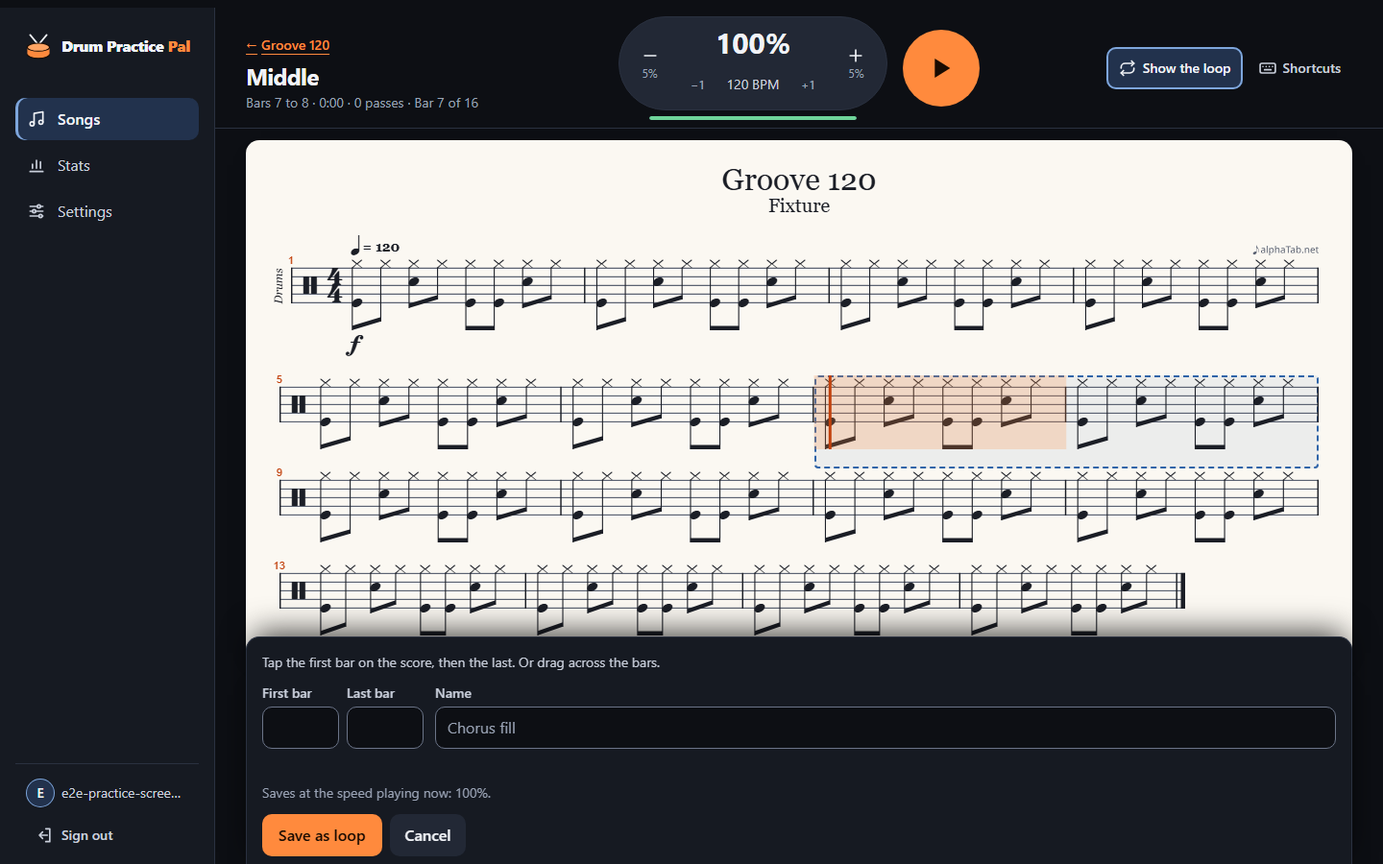
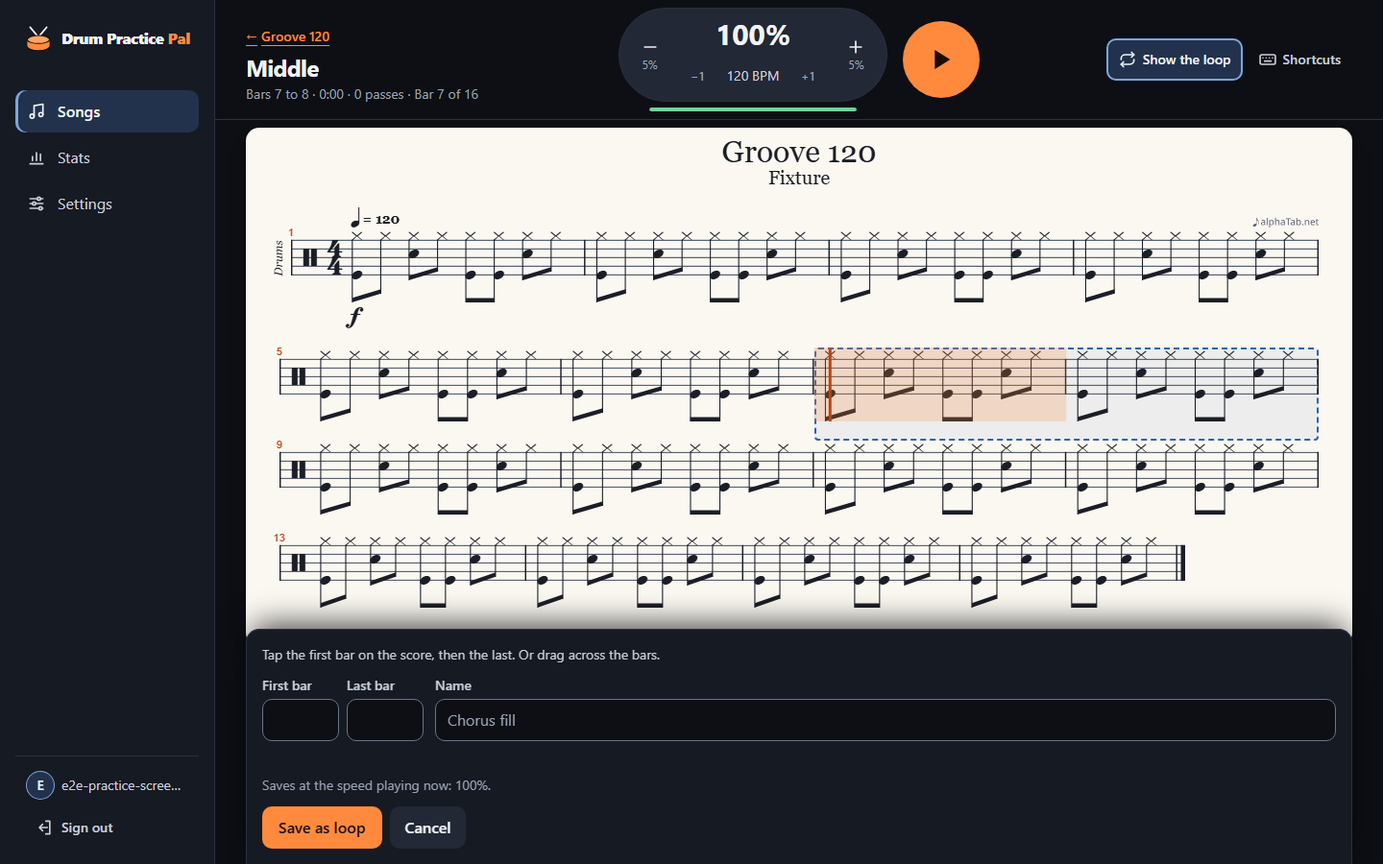
Saving a loop stays put, for making several in a row
Shane, practising: he makes a few loops, then goes to them. A save from the overview's New loop form, or from the practice screen's Save as loop sheet, no longer jumps to the new loop: the form stays, emptied, names the loop just saved with a way to practise it, and its second button reads Done. Each form that stays is remounted, so every save has its own client id.

diff --git a/src/features/song/LoopPracticePage.test.tsx b/src/features/song/LoopPracticePage.test.tsx
@@ -464,7 +464,9 @@ describe('LoopPracticePage', () => {
       });
     });
 
-    it('in the whole song, taps pick a new loop’s bars; Save as loop opens its screen, replaced', async () => {
+    // Shane, practising: several loops are made in one go, then practised. A save no longer
+    // jumps to the new loop.
+    it('in the whole song, Save as loop keeps the view for the next loop and names the one saved', async () => {
       const { user, engine } = await openChorus([`/songs/${SONG}`]);
       await user.click(wholeSong());
       engine.seek.mockClear();
@@ -478,14 +480,38 @@ describe('LoopPracticePage', () => {
       await user.type(screen.getByRole('textbox', { name: 'Name' }), 'Intro');
       await user.click(screen.getByRole('button', { name: 'Save as loop' }));
 
+      // Still the loop being practised, still the whole song, and an empty form.
+      expect(await screen.findByTestId('loop-saved-note')).toHaveTextContent('Saved “Intro”.');
+      expect(screen.getByRole('heading', { level: 1, name: 'Chorus fill' })).toBeInTheDocument();
+      expect(location()).toHaveTextContent(`/songs/${SONG}/loops/${CHORUS_ID}`);
+      expect(wholeSong()).toHaveAccessibleName(SHOWS_SONG);
+      expect(screen.getByRole('textbox', { name: 'Name' })).toHaveValue('');
+      expect(screen.getByRole('textbox', { name: 'First bar' })).toHaveValue('');
+      expect(screen.getByRole('button', { name: 'Done' })).toBeInTheDocument();
+
+      // A second loop is its own row: a new id, not the first one sent again.
+      tap(engine, 14);
+      tap(engine, 15);
+      await user.type(screen.getByRole('textbox', { name: 'Name' }), 'Outro');
+      await user.click(screen.getByRole('button', { name: 'Save as loop' }));
+      expect(await screen.findByText(/Saved “Outro”/)).toBeInTheDocument();
+      const sent = loops.sent('insert') as Loop[];
+      expect(sent.map((loop) => loop.name)).toEqual(['Intro', 'Outro']);
+      expect(sent[0]).toMatchObject({ start_bar: 3, end_bar: 5, speed_ratio: 0.708333 });
+      expect(sent[0]?.id).not.toBe(sent[1]?.id);
+    });
+
+    it('"Practise it" in the saved note opens the loop just saved, replacing the URL', async () => {
+      const { user, engine } = await openChorus([`/songs/${SONG}`]);
+      await user.click(wholeSong());
+      tap(engine, 3);
+      tap(engine, 5);
+      await user.type(screen.getByRole('textbox', { name: 'Name' }), 'Intro');
+      await user.click(screen.getByRole('button', { name: 'Save as loop' }));
+      await user.click(await screen.findByRole('button', { name: 'Practise it' }));
+
       expect(await screen.findByRole('heading', { level: 1, name: 'Intro' })).toBeInTheDocument();
       const [sent] = loops.sent('insert') as Loop[];
-      expect(sent).toMatchObject({
-        name: 'Intro',
-        start_bar: 3,
-        end_bar: 5,
-        speed_ratio: 0.708333,
-      });
       expect(location()).toHaveTextContent(`/songs/${SONG}/loops/${sent?.id}`);
       // The new loop plays, drawn with a bar either side; the form has gone.
       expect(engine.setPlaybackRange).toHaveBeenLastCalledWith({
@@ -502,6 +528,23 @@ describe('LoopPracticePage', () => {
 
       historyBack();
       expect(await screen.findByText('At song overview')).toBeInTheDocument();
+    });
+
+    it('"Done" after a save goes back to the loop being practised', async () => {
+      const { user, engine } = await openChorus();
+      await user.click(wholeSong());
+      tap(engine, 3);
+      tap(engine, 5);
+      await user.type(screen.getByRole('textbox', { name: 'Name' }), 'Intro');
+      await user.click(screen.getByRole('button', { name: 'Save as loop' }));
+      await user.click(await screen.findByRole('button', { name: 'Done' }));
+
+      expect(wholeSong()).toHaveAccessibleName(SHOWS_LOOP);
+      expect(screen.getByRole('heading', { level: 1, name: 'Chorus fill' })).toBeInTheDocument();
+      expect(engine.setPlaybackRange).toHaveBeenLastCalledWith({
+        startTick: startOfBar(9),
+        endTick: startOfBar(13),
+      });
     });
 
     it('a mouse drag in the whole song picks the bars', async () => {
@@ -538,7 +581,7 @@ describe('LoopPracticePage', () => {
       expect(screen.getByRole('textbox', { name: 'First bar' })).toHaveValue('3');
 
       release();
-      expect(await screen.findByRole('heading', { level: 1, name: 'Intro' })).toBeInTheDocument();
+      expect(await screen.findByTestId('loop-saved-note')).toHaveTextContent('Saved “Intro”.');
       expect(loops.sent('insert')).toHaveLength(1);
     });
 

diff --git a/src/features/loops/LoopPanel.tsx b/src/features/loops/LoopPanel.tsx
@@ -1,4 +1,5 @@
 import { useRef, useState } from 'react';
+import { Link } from 'react-router';
 import { LoadErrorAlert } from '@/components/LoadErrorAlert';
 import { Icon } from '@/components/icons';
 import { OverflowMenu } from '@/components/OverflowMenu';
@@ -8,6 +9,7 @@ import {
   buttonClass,
   focusRing,
   ghostButtonClass,
+  linkClass,
   primaryButtonClass,
   sectionHeadingClass,
 } from '@/components/styles';
@@ -24,6 +26,7 @@ import {
   neighbourAfterLeaving,
 } from '@/lib/itemFocus';
 import { waitsForNetwork } from '@/lib/network';
+import { loopPracticePath } from '@/lib/routes';
 import type { LoopStatus } from '@/lib/schema';
 import { useFocusWhenReady } from '@/lib/useFocusWhenReady';
 import {
@@ -74,7 +77,13 @@ interface LoopPanelProps {
  * page as it was.
  */
 export interface LoopFormOutcome {
+  /**
+   * A new loop was saved. With `keepsAdding` the form stays, emptied, for the
+   * next loop, and says which one it just saved (several loops are made in one
+   * go, then practised: Shane, 2026-11-27); this is then only told about it.
+   */
   onCreated?: (loop: Loop) => void;
+  keepsAdding?: boolean;
   onEdited?: (loop: Loop) => void;
   onCancelled?: () => void;
 }
@@ -196,6 +205,10 @@ function LoopPanelBody({
   // The form replaces the list, and with it the button that opened it; focus goes back there.
   const focusWhenReady = useFocusWhenReady();
   const formOpener = useRef<LoopFormOpener | null>(null);
+  // The loops saved by a form that stays for the next one: the last is named above the
+  // fields, and each makes the next form a new one (its own client id, an empty name).
+  const [savedHere, setSavedHere] = useState<Loop[]>([]);
+  const lastSaved = savedHere[savedHere.length - 1];
 
   const openForm = (loop: Loop | null) => {
     if (!practice.openEditor(loop)) return;
@@ -235,7 +248,7 @@ function LoopPanelBody({
     return (
       <LoopEditorForm
         // A different loop is a different form: its typed name starts over.
-        key={editor.loopId ?? 'new'}
+        key={editor.loopId ?? `new-${savedHere.length}`}
         songId={songId}
         barCount={barCount}
         loop={editedLoop}
@@ -250,6 +263,14 @@ function LoopPanelBody({
             outcome?.onEdited?.(saved);
             return;
           }
+          if (outcome?.keepsAdding) {
+            // The form stays for the next loop: nothing is selected, so the whole song is
+            // still there to pick bars from.
+            setSavedHere((loops) => [...loops, saved]);
+            practice.openEditor(null);
+            outcome.onCreated?.(saved);
+            return;
+          }
           // A new loop is what the user wants to practice next; an edit leaves playback as it is.
           if (outcome?.onCreated) outcome.onCreated(saved);
           else practice.selectLoop(saved.id);
@@ -258,6 +279,18 @@ function LoopPanelBody({
           closeForm();
           outcome?.onCancelled?.();
         }}
+        note={
+          !editedLoop && lastSaved ? (
+            <>
+              Saved “{lastSaved.name}”.{' '}
+              <Link to={loopPracticePath(songId, lastSaved.id)} className={linkClass}>
+                Practise it
+              </Link>{' '}
+              or pick bars for another.
+            </>
+          ) : undefined
+        }
+        cancelLabel={!editedLoop && lastSaved ? 'Done' : undefined}
       />
     );
   }

diff --git a/src/features/song/SongPage.test.tsx b/src/features/song/SongPage.test.tsx
@@ -1284,6 +1284,44 @@ describe('SongPage loops', () => {
     expect(speedReadout()).toHaveTextContent('80%');
   });
 
+  // Shane, practising: several loops are made in one go, then practised. The overview's "New
+  // loop" used to jump to each new loop's practice screen, and he had to back out for the next.
+  it('"New loop" from the overview keeps the form for the next loop; Done goes back to the song', async () => {
+    serve({ loops: [] });
+    const user = renderSong(`${SONG_A}?new=1`);
+    await loadPlayer(0, { barTempos: TEMPO_CHANGE_BAR_TEMPOS });
+    await panel().findByRole('form');
+
+    await user.type(form().getByLabelText('Name'), 'Verse');
+    await user.type(form().getByLabelText('First bar'), '3');
+    await user.type(form().getByLabelText('Last bar'), '4');
+    await user.click(form().getByRole('button', { name: 'Save loop' }));
+
+    // Still here, on an empty form that names what it saved and links to it.
+    expect(await form().findByTestId('loop-saved-note')).toHaveTextContent('Saved “Verse”.');
+    expect(screen.getByTestId('location')).toHaveTextContent(`/songs/${SONG_A}/play`);
+    expect(form().getByLabelText('Name')).toHaveValue('');
+    expect(form().getByLabelText('First bar')).toHaveValue('');
+    const [first] = loops.sent('insert') as Loop[];
+    expect(form().getByRole('link', { name: 'Practise it' })).toHaveAttribute(
+      'href',
+      `/songs/${SONG_A}/loops/${first?.id}`,
+    );
+
+    // A second loop is its own row, not the first sent again.
+    await user.type(form().getByLabelText('Name'), 'Chorus');
+    await user.type(form().getByLabelText('First bar'), '9');
+    await user.type(form().getByLabelText('Last bar'), '12');
+    await user.click(form().getByRole('button', { name: 'Save loop' }));
+    expect(await form().findByText(/Saved “Chorus”/)).toBeInTheDocument();
+    const sent = loops.sent('insert') as Loop[];
+    expect(sent.map((loop) => loop.name)).toEqual(['Verse', 'Chorus']);
+    expect(sent[0]?.id).not.toBe(sent[1]?.id);
+
+    await user.click(form().getByRole('button', { name: 'Done' }));
+    expect(await screen.findByText('At song overview')).toBeInTheDocument();
+  });
+
   it('refuses a form it cannot save, saying why, and sends nothing', async () => {
     const { user } = await openSong();
     await user.click(await panel().findByRole('button', { name: 'New loop' }));

diff --git a/src/features/song/LoopPracticePage.tsx b/src/features/song/LoopPracticePage.tsx
@@ -440,6 +440,9 @@ function SaveAsLoopSheet({
 }) {
   const sheetRef = useRef<HTMLDivElement>(null);
   const sheetHeight = useHeightOf(sheetRef);
+  // The loops saved from this sheet, the last one named above its fields.
+  const [savedHere, setSavedHere] = useState<Loop[]>([]);
+  const lastSaved = savedHere[savedHere.length - 1];
   const { editor } = practice;
   if (!editor) return null;
   return (
@@ -453,6 +456,8 @@ function SaveAsLoopSheet({
         className="fixed inset-x-0 bottom-[calc(3.5rem+1px+env(safe-area-inset-bottom))] z-10 max-h-[60dvh] overflow-y-auto rounded-t-card border-t border-line bg-surface p-4 shadow-sheet md:right-gutter md:bottom-[env(safe-area-inset-bottom)] md:left-[calc(var(--spacing-sidebar)+var(--spacing-gutter))] md:border-x"
       >
         <LoopEditorForm
+          // A new form for each loop saved: its own client id, an empty name.
+          key={savedHere.length}
           layout="bar"
           songId={songId}
           barCount={barCount}
@@ -463,10 +468,32 @@ function SaveAsLoopSheet({
           onBarsChange={practice.setEditorBars}
           onSavingChange={practice.setEditorSaving}
           onSaved={(saved) => {
-            practice.closeEditor();
-            practice.selectLoop(saved.id);
+            // The whole song stays, emptied for the next loop: several are made in one go,
+            // then practised (Shane, 2026-11-27). The loop being practised stays the loop.
+            setSavedHere((loops) => [...loops, saved]);
+            practice.openEditor(null);
           }}
           onCancel={practice.closeEditor}
+          note={
+            lastSaved ? (
+              <>
+                Saved “{lastSaved.name}”.{' '}
+                {/* A button, not a link: this screen switches loop in place, and its URL follows. */}
+                <button
+                  type="button"
+                  className={linkClass}
+                  onClick={() => {
+                    practice.closeEditor();
+                    practice.selectLoop(lastSaved.id);
+                  }}
+                >
+                  Practise it
+                </button>{' '}
+                or pick bars for another.
+              </>
+            ) : undefined
+          }
+          cancelLabel={lastSaved ? 'Done' : undefined}
         />
       </div>
     </>

diff --git a/src/features/loops/LoopEditorForm.tsx b/src/features/loops/LoopEditorForm.tsx
@@ -1,4 +1,4 @@
-import { useEffect, useId, useRef, useState, type FormEvent } from 'react';
+import { useEffect, useId, useRef, useState, type FormEvent, type ReactNode } from 'react';
 import { ErrorAlert } from '@/components/ErrorAlert';
 import { OfflineNote } from '@/components/OfflineNote';
 import { buttonClass, inputClass, labelClass, primaryButtonClass } from '@/components/styles';
@@ -47,6 +47,8 @@ export function LoopEditorForm({
   onSaved,
   onCancel,
   layout = 'panel',
+  note,
+  cancelLabel = 'Cancel',
 }: {
   songId: string;
   barCount: number;
@@ -61,6 +63,10 @@ export function LoopEditorForm({
   onSaved: (saved: Loop) => void;
   onCancel: () => void;
   layout?: 'panel' | 'bar';
+  /** Said above the fields, as a status: the loop just saved, when the form stays for the next. */
+  note?: ReactNode;
+  /** The second button's words: "Done" once a loop has been saved and the form stayed. */
+  cancelLabel?: string;
 }) {
   const inBar = layout === 'bar';
   const create = useCreateLoop(songId);
@@ -147,6 +153,11 @@ export function LoopEditorForm({
       onSubmit={onSubmit}
       noValidate
     >
+      {note && (
+        <p role="status" className="text-sm text-ink" data-testid="loop-saved-note">
+          {note}
+        </p>
+      )}
       <p className="text-sm text-ink-soft" aria-live="polite" data-testid="loop-bars-hint">
         {hint}
       </p>
@@ -205,7 +216,7 @@ export function LoopEditorForm({
           {saving ? 'Saving…' : inBar ? 'Save as loop' : 'Save loop'}
         </button>
         <button type="button" className={buttonClass} disabled={saving} onClick={onCancel}>
-          Cancel
+          {cancelLabel}
         </button>
       </div>
       {!online && (

diff --git a/src/features/song/SongPage.tsx b/src/features/song/SongPage.tsx
@@ -24,7 +24,7 @@ import { usePlayer } from '@/features/player/usePlayer';
 import { usePracticeTracker } from '@/features/practice/usePracticeTracker';
 import { ShortcutOverlay } from '@/features/shortcuts/ShortcutOverlay';
 import { isUuid } from '@/lib/randomUuid';
-import { EDIT_LOOP_PARAM, loopPracticePath, NEW_LOOP_PARAM, songPath } from '@/lib/routes';
+import { EDIT_LOOP_PARAM, NEW_LOOP_PARAM, songPath } from '@/lib/routes';
 import { useFocusWhenReady } from '@/lib/useFocusWhenReady';
 import {
   fullBleedBarClass,
@@ -133,8 +133,9 @@ function useLinkedLoopForm(
   if (!linked) return undefined;
   const backToSong = () => void navigate(songPath(songId), { replace: true });
   return {
-    // Replaced, so Back from the practice screen goes to the song, not to the form.
-    onCreated: (loop) => void navigate(loopPracticePath(songId, loop.id), { replace: true }),
+    // "New loop" from the song: the form stays for the next loop, and "Done" (or the note's
+    // link to the loop just saved) is the way on. Only an edit goes straight back.
+    keepsAdding: linked.kind === 'new',
     onEdited: backToSong,
     onCancelled: backToSong,
   };

diff --git a/tests/e2e/journey.spec.ts b/tests/e2e/journey.spec.ts
@@ -77,11 +77,15 @@ test('first run: sign in, upload, jam, make a loop, practise, hit full speed, fi
   await playButton(page).click();
   await expect(playButton(page)).toHaveText('Play');
 
-  // Back to the song, and "New loop": the bar picker opens, and the save goes to the loop.
+  // Back to the song, and "New loop": the bar picker opens. The save keeps the form for
+  // another loop and names the one it saved, whose link goes to its practice screen.
   await backTo(page, 'Groove 120').click();
   await page.getByRole('link', { name: 'New loop' }).click();
   await expect(loopForm(page)).toBeVisible({ timeout: 20_000 });
   await fillLoopForm(page, { name: 'Groove', firstBar: 5, lastBar: 6 });
+  await expect(page.getByTestId('loop-saved-note')).toContainText('Saved “Groove”.');
+  await expect(page).toHaveURL(/\/songs\/[^/]+\/play/);
+  await page.getByRole('link', { name: 'Practise it' }).click();
   await expect(page).toHaveURL(/\/songs\/[^/]+\/loops\/[^/]+$/);
   await expect(page.getByRole('heading', { level: 1, name: 'Groove' })).toBeVisible();
   await expect(playButton(page)).toBeEnabled({ timeout: 20_000 });

diff --git a/tests/e2e/practice-screen.spec.ts b/tests/e2e/practice-screen.spec.ts
@@ -72,6 +72,11 @@ test('draws the loop alone; from the whole song a tap picks bars and Save as loo
   await saveSheet(page).getByLabel('Name').fill('Early');
   await saveSheet(page).getByRole('button', { name: 'Save as loop' }).click();
 
+  // The whole song stays for another loop; the note's button opens the one just saved.
+  await expect(saveSheet(page).getByTestId('loop-saved-note')).toContainText('Saved “Early”.');
+  await expect(page.getByRole('heading', { level: 1, name: 'Middle' })).toBeVisible();
+  await saveSheet(page).getByRole('button', { name: 'Practise it' }).click();
+
   await expect(page.getByRole('heading', { level: 1, name: 'Early' })).toBeVisible();
   await expect(page).toHaveURL(/\/songs\/[^/]+\/loops\/[^/]+$/);
   await expect(saveSheet(page)).toHaveCount(0);

diff --git a/AGENTS.md b/AGENTS.md
@@ -291,7 +291,7 @@ docs/
 - A song's screens share their gates in `src/features/song/`: `SongGate` (the song row: not an id, not found, offline, loading, failed; it imports no player code, so the overview stays out of alphaTab's chunk), `SongFileGate` (the file and settings, then the player, latched per song as before), `BackLink` (the way up a level, named by the level's title), and `playerScreen.tsx` (`ScoreBox`, `PlayerStatusLine`, `SessionNotice`, `ShortcutsButton`, `fullBleedBarClass`). A new screen that plays a song uses these, `usePlayer` and the shared controls.
 - The practice screen opens its loop with `useRequestedLoop(loopId, …)` (the route's id; the rules from Unit 09 hold: settled on a read since mount, once per id, giving way to a loop already open) after `lookUpPracticeLoop` (`practiceLoop.ts`, pure) has found it in the song's list; a cached list that lacks it waits while a read is on its way. The loop keys move to the song's other loops and `useUrlFollowsLoop` replaces the URL. Its controls are `PlayerControls showSpeed={false}` (count-in, metronome, drum toggles), the round `PlayPauseButton round` and `PracticeSpeed` (large percent, BPM, `fullSpeedLabel`, round 5% nudges, each saved as it is made). `PracticeSpeed` and the panel's `LoopSpeedControl` share `useLoopSpeed` (`src/features/loops/useLoopSpeed.ts`): one gate, and one view of the saves (`useLoopSpeedSaves`); the screen saves through `useSaveLoopSpeed`. Both screens ask "Mark finished?" with `shouldAskToFinish` and `useSpeedMovedSinceChosen`. Play and Space there go by `canPlayLoopPractice(player, snapshot, loopOpen)` (`controlGates.ts`): the sounds can be in before the loop is open, and a Play then would play the whole song (16 Test bug 1); the page makes one `PlayGate` and gives it to `PlayPauseButton`'s `gate` and `useSongShortcuts`' `playGate`, which both default to `canPlay`. A screen whose Play needs more than the player does the same.
 - Short windows (a phone on its side, 390 px tall) have the `short` variant (`@custom-variant short` in `index.css`, `max-height: 30rem`): the practice screen's sticky bar is one row there (`PracticeSpeed`, the round Play at `short:size-14`), every target still 44 px.
-- "New loop" on the overview is the jam page with `?new=1`, "Edit" `?edit=<id>`: `useLinkedLoopForm` in `SongPage.tsx` opens the form once the score's bars are in (never over a form the user opened first; the score is brought above the sheet only once the panel is open, `pickingBars && loopPanel.open`, since the open sheet's room at the page's end is what lets the window scroll that far: 16 QA issue 1), and `LoopPanel`'s `outcome` (`LoopFormOutcome`: `onCreated`, `onEdited`, `onCancelled`) says where the save or Cancel goes (a new loop to its practice screen, replaced; an edit or a Cancel back to the song). Without `outcome` the panel behaves as before.
+- "New loop" on the overview is the jam page with `?new=1`, "Edit" `?edit=<id>`: `useLinkedLoopForm` in `SongPage.tsx` opens the form once the score's bars are in (never over a form the user opened first; the score is brought above the sheet only once the panel is open, `pickingBars && loopPanel.open`, since the open sheet's room at the page's end is what lets the window scroll that far: 16 QA issue 1), and `LoopPanel`'s `outcome` (`LoopFormOutcome`: `onCreated`, `onEdited`, `onCancelled`) says where the save or Cancel goes: with `keepsAdding` (the overview's "New loop") the form stays, emptied, for the next loop, naming the one just saved with a "Practise it" link, and its second button reads "Done" (Shane makes several loops, then practises them; a save no longer jumps to the new loop); an edit or a Cancel goes back to the song. The practice screen's "Save as loop" sheet does the same, its "Practise it" a button that switches loop in place. A form that stays is remounted per loop saved (`key` from the count), so each save has its own client id. Without `outcome` the panel behaves as before.
 - Session complete: `usePracticeTracker` also returns `completed` (a session logged through the mutation for a session that ended while the screen stayed, with `startSpeedRatio`, which the hook keeps per session id since the tracker keeps only the latest speed), `dismissCompleted` and `progress()` (the open session's play time and passes, read from the tracker's ref; the screen re-renders each second while running). Sessions that end by leaving (keepalive, unobserved) never set it. `SessionComplete` (`src/features/practice/`) adds the streak and the badges just earned (`sessionSummaryExtras`) once every session and loop is read. It is a sheet fixed at the foot of the window (placed as the loop sheet is), not a block in the page, so the score never moves as it comes and goes (16 QA issue 4, `practice.spec.ts`); anything else that appears over a score while it is being tapped does the same.
 - Stats are derived, never stored: `src/features/stats/` is pure modules over `useAllSessions()` (every session of the user, `fetchAllSessions` through `fetchAllPages`, key `sessionKeys.every`) and `usePracticeLoops()` (every loop with its song): `days.ts` (local calendar days as `DayKey`; step days with `addDays`, never by 24 h, so summer time can't skip one), `streak.ts` (`currentStreak` ends today or yesterday, `longestStreak`), `totals.ts` (`statsTotals` per `StatsRange` in the URL's `?range=`, `dailyPractice`, `practiceHeatmap`, `speedHistory`, `clockLabel`, `minutesLabel`), `badges.ts` (the fixed `BADGES` list, `badgeProgress`, `newlyEarned`), `sessionSummary.ts`. `sessionLogged` adds the session to `sessionKeys.every` at once and invalidates it; a loop delete invalidates it. New stats go in these modules with a test, taking `now`; tests build dates with local `new Date(y, m, d, h)`.
 - Charts are SVG drawn by the app (`charts.tsx`), never a chart library: geometry in `chartScale.ts` (pure: `niceCeiling`, `barRects`, `linePoints`, `pathOf`, `speedAxis`), colours as token utilities (`fill-selected-line`, `stroke-success`, `fill-raised`), and every chart an `svg role="img"` named by a one-line summary plus a visually hidden `<table>` of its numbers. A new graphic colour pair goes in `NON_TEXT_PAIRS` in `designTokens.test.ts`. The heatmap is the exception to "never the brand" below, at Shane's call (16 QA issue 6): empty days `fill-raised`, practised ones four brand steps (`heatmapShades.ts`, import-free, so the token test checks each against the page and an empty cell at 3:1), and today ringed in `ink` in the gap round its cell. Stats with no session and no finished loop is one `EmptyState` with a link to Songs (`hasPracticeHistory`).

diff --git a/docs/plan.md b/docs/plan.md
@@ -578,6 +578,7 @@ Numbered 16 when main was merged in: main had taken 14 and 15 for recordings whi
 - **Practice screen header (Shane's review of the build):** one sticky band. From 1024 px three columns: back, name and a meta line (bars · time · passes · bar n of N) left; the speed stepper (a pill: its ends ±5%, the percent over the BPM, each tapped to type, quiet ±1 BPM either side of the BPM, a thin bar to full speed under it) on the band's centre; Show whole song, Shortcuts and Play right. Below 1024 px (a phone, and a tablet beside the sidebar) the stepper is a centred row under the name and Play; in a `short` window one row.
 - **In the whole-song view the toggle reads "Show the loop"** (it names what a press shows next), the loop stays highlighted until other bars are picked, and a whole range picked there is what plays, so a new loop is heard before it is saved (`useLoopPractice`'s `previewPickedBars`); "Show the loop" or Cancel goes back to the loop's own bars. Time played on picked bars still counts to the loop being practised.
 - **The metronome's slider reaches 3 times louder** (`metronomeChannelGain`), and **a loop's name on the song overview opens it**, as its play button does.
+- **Saving a loop stays put** (Shane, practising on 2026-11-27: "I want to make a few then go to them"). The overview's "New loop" form and the practice screen's "Save as loop" sheet both stay open, emptied, after a save, name the loop just saved with a way to practise it, and end with "Done". Neither jumps to the new loop.
 - **The metronome's sounds change while playing** (done: the engine rebuilds its MIDI and carries on; AGENTS.md, Metronome sounds).
 - **Local testing:** "Dev: sign in" on the dev server's login page (done; AGENTS.md, App shell).
 - **Song links and the YouTube player are not in this unit:** they are Unit 14, built next, after this unit's PR.
